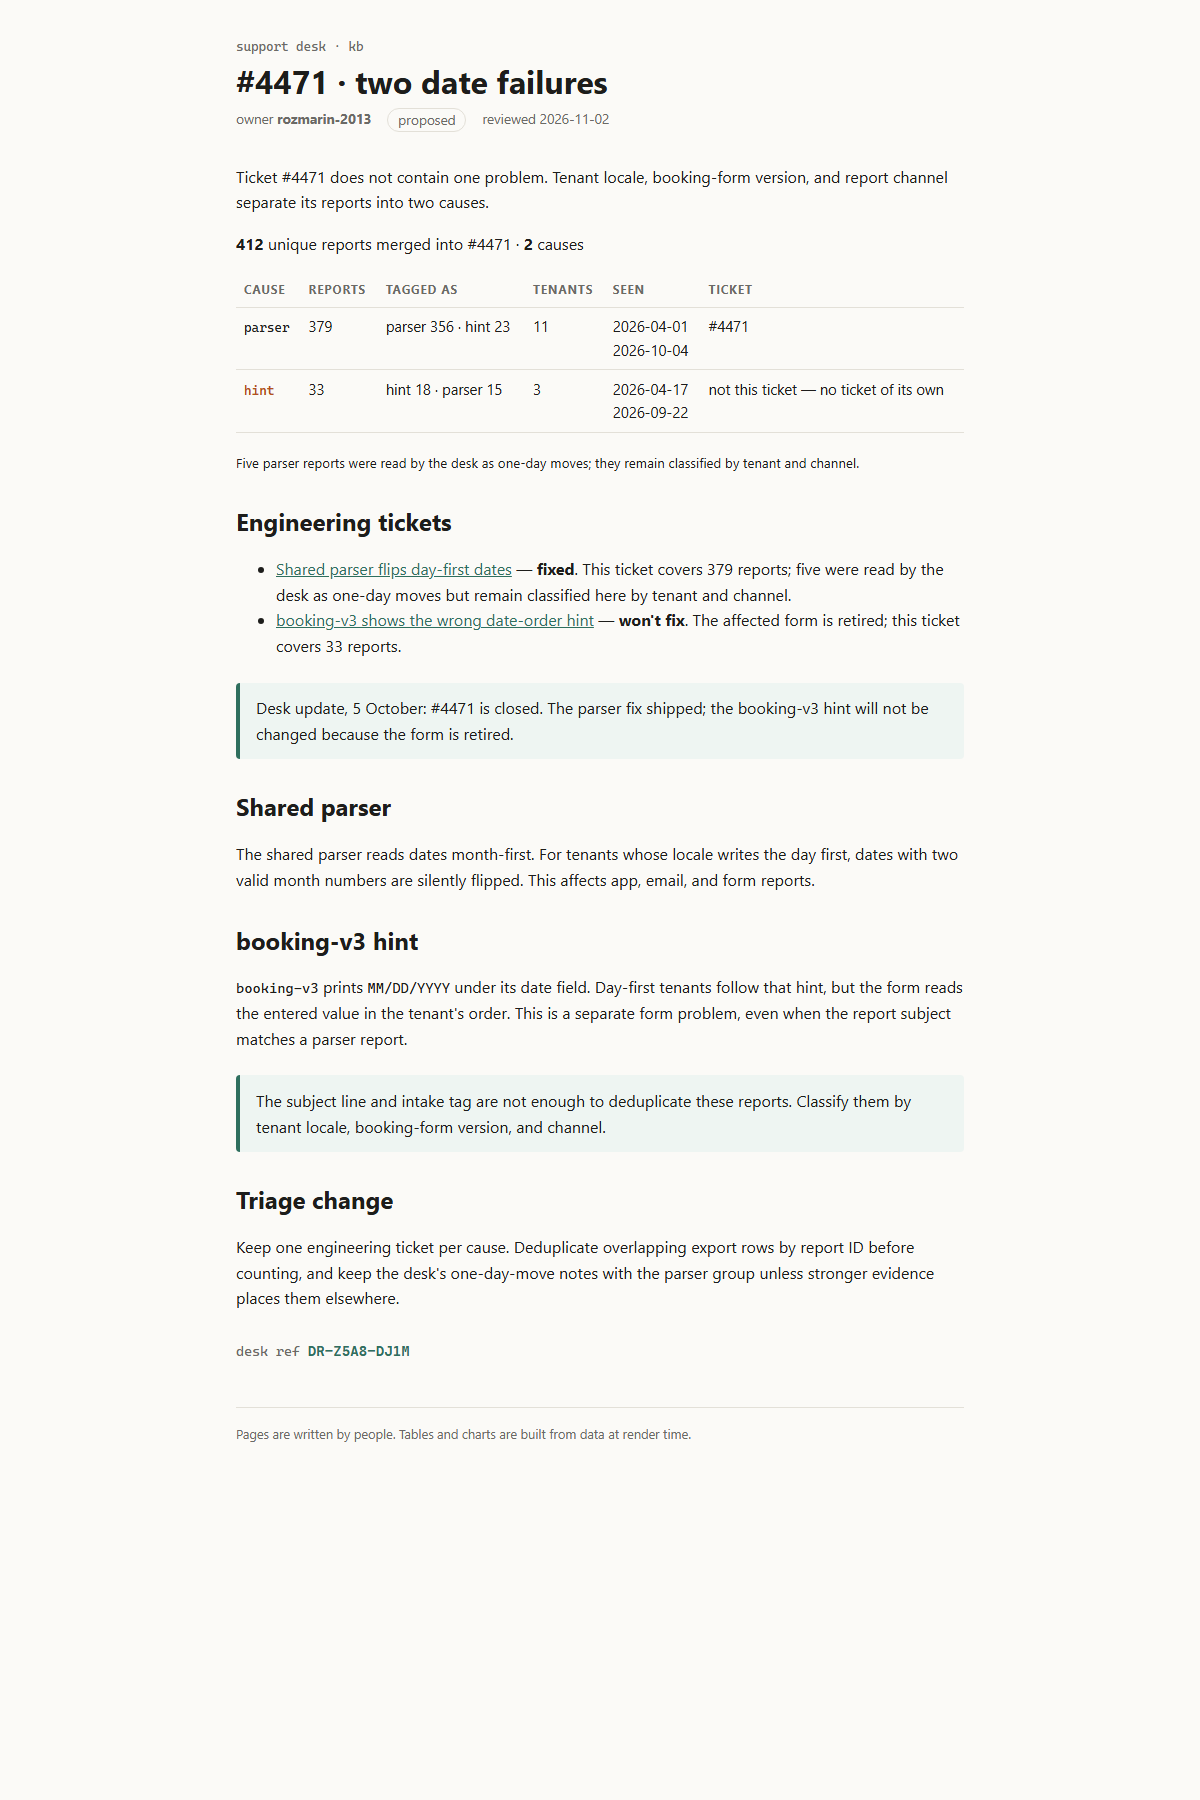
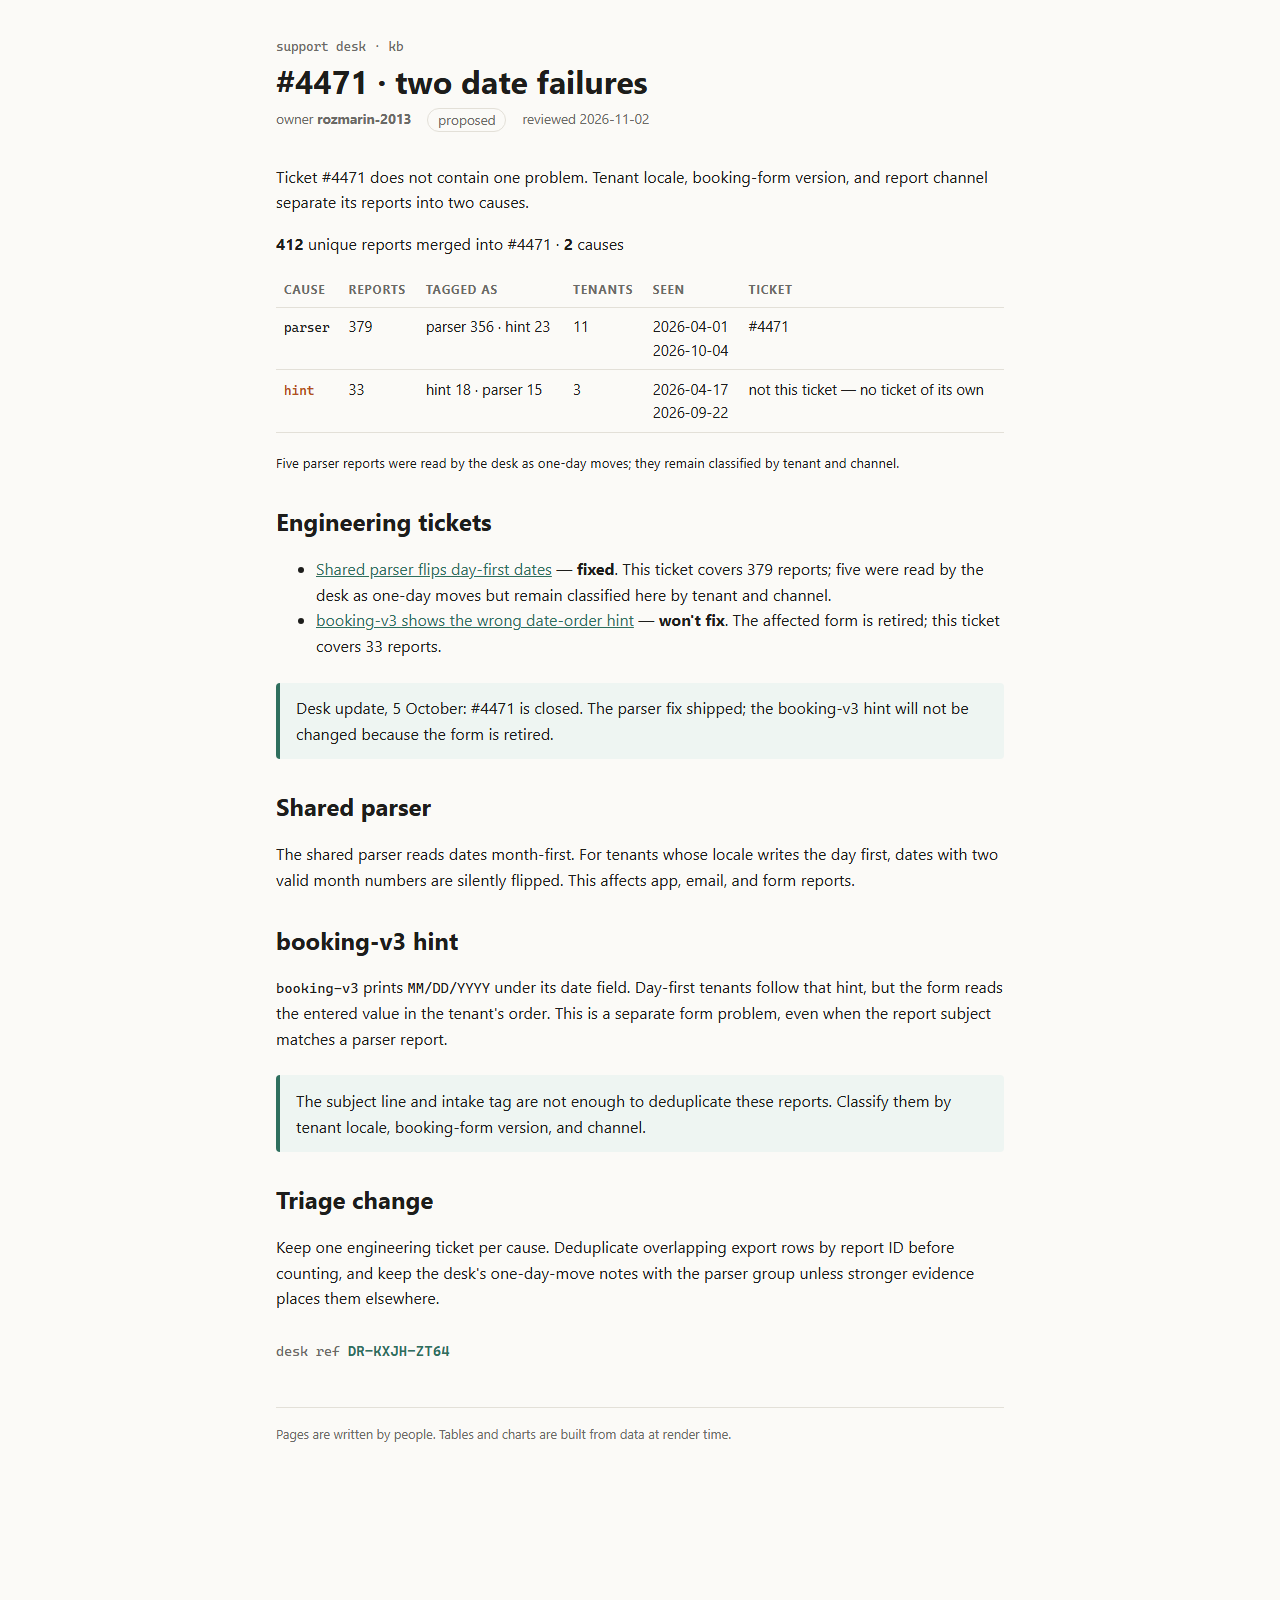
Sign ticket 4471 page with challenge ticket

Changed region(s): [[0.185, 0.0, 0.8017, 0.8438], [0.2158, 0.875, 0.555, 0.9062]]

diff --git a/src/routes/kb/incidents/4471/causes/rendered.html b/src/routes/kb/incidents/4471/causes/rendered.html
@@ -66,7 +66,7 @@
       <h2>Triage change</h2>
       <p>Keep one engineering ticket per cause. Deduplicate overlapping export rows by report ID before counting, and keep the desk's one-day-move notes with the parser group unless stronger evidence places them elsewhere.</p>
 
-      <p class="stamp">desk ref <b>DR-Z5A8-DJ1M</b></p>
+      <p class="stamp">desk ref <b>DR-KXJH-ZT64</b></p>
     </main>
 
     <footer>Pages are written by people. Tables and charts are built from data at render time.</footer>
